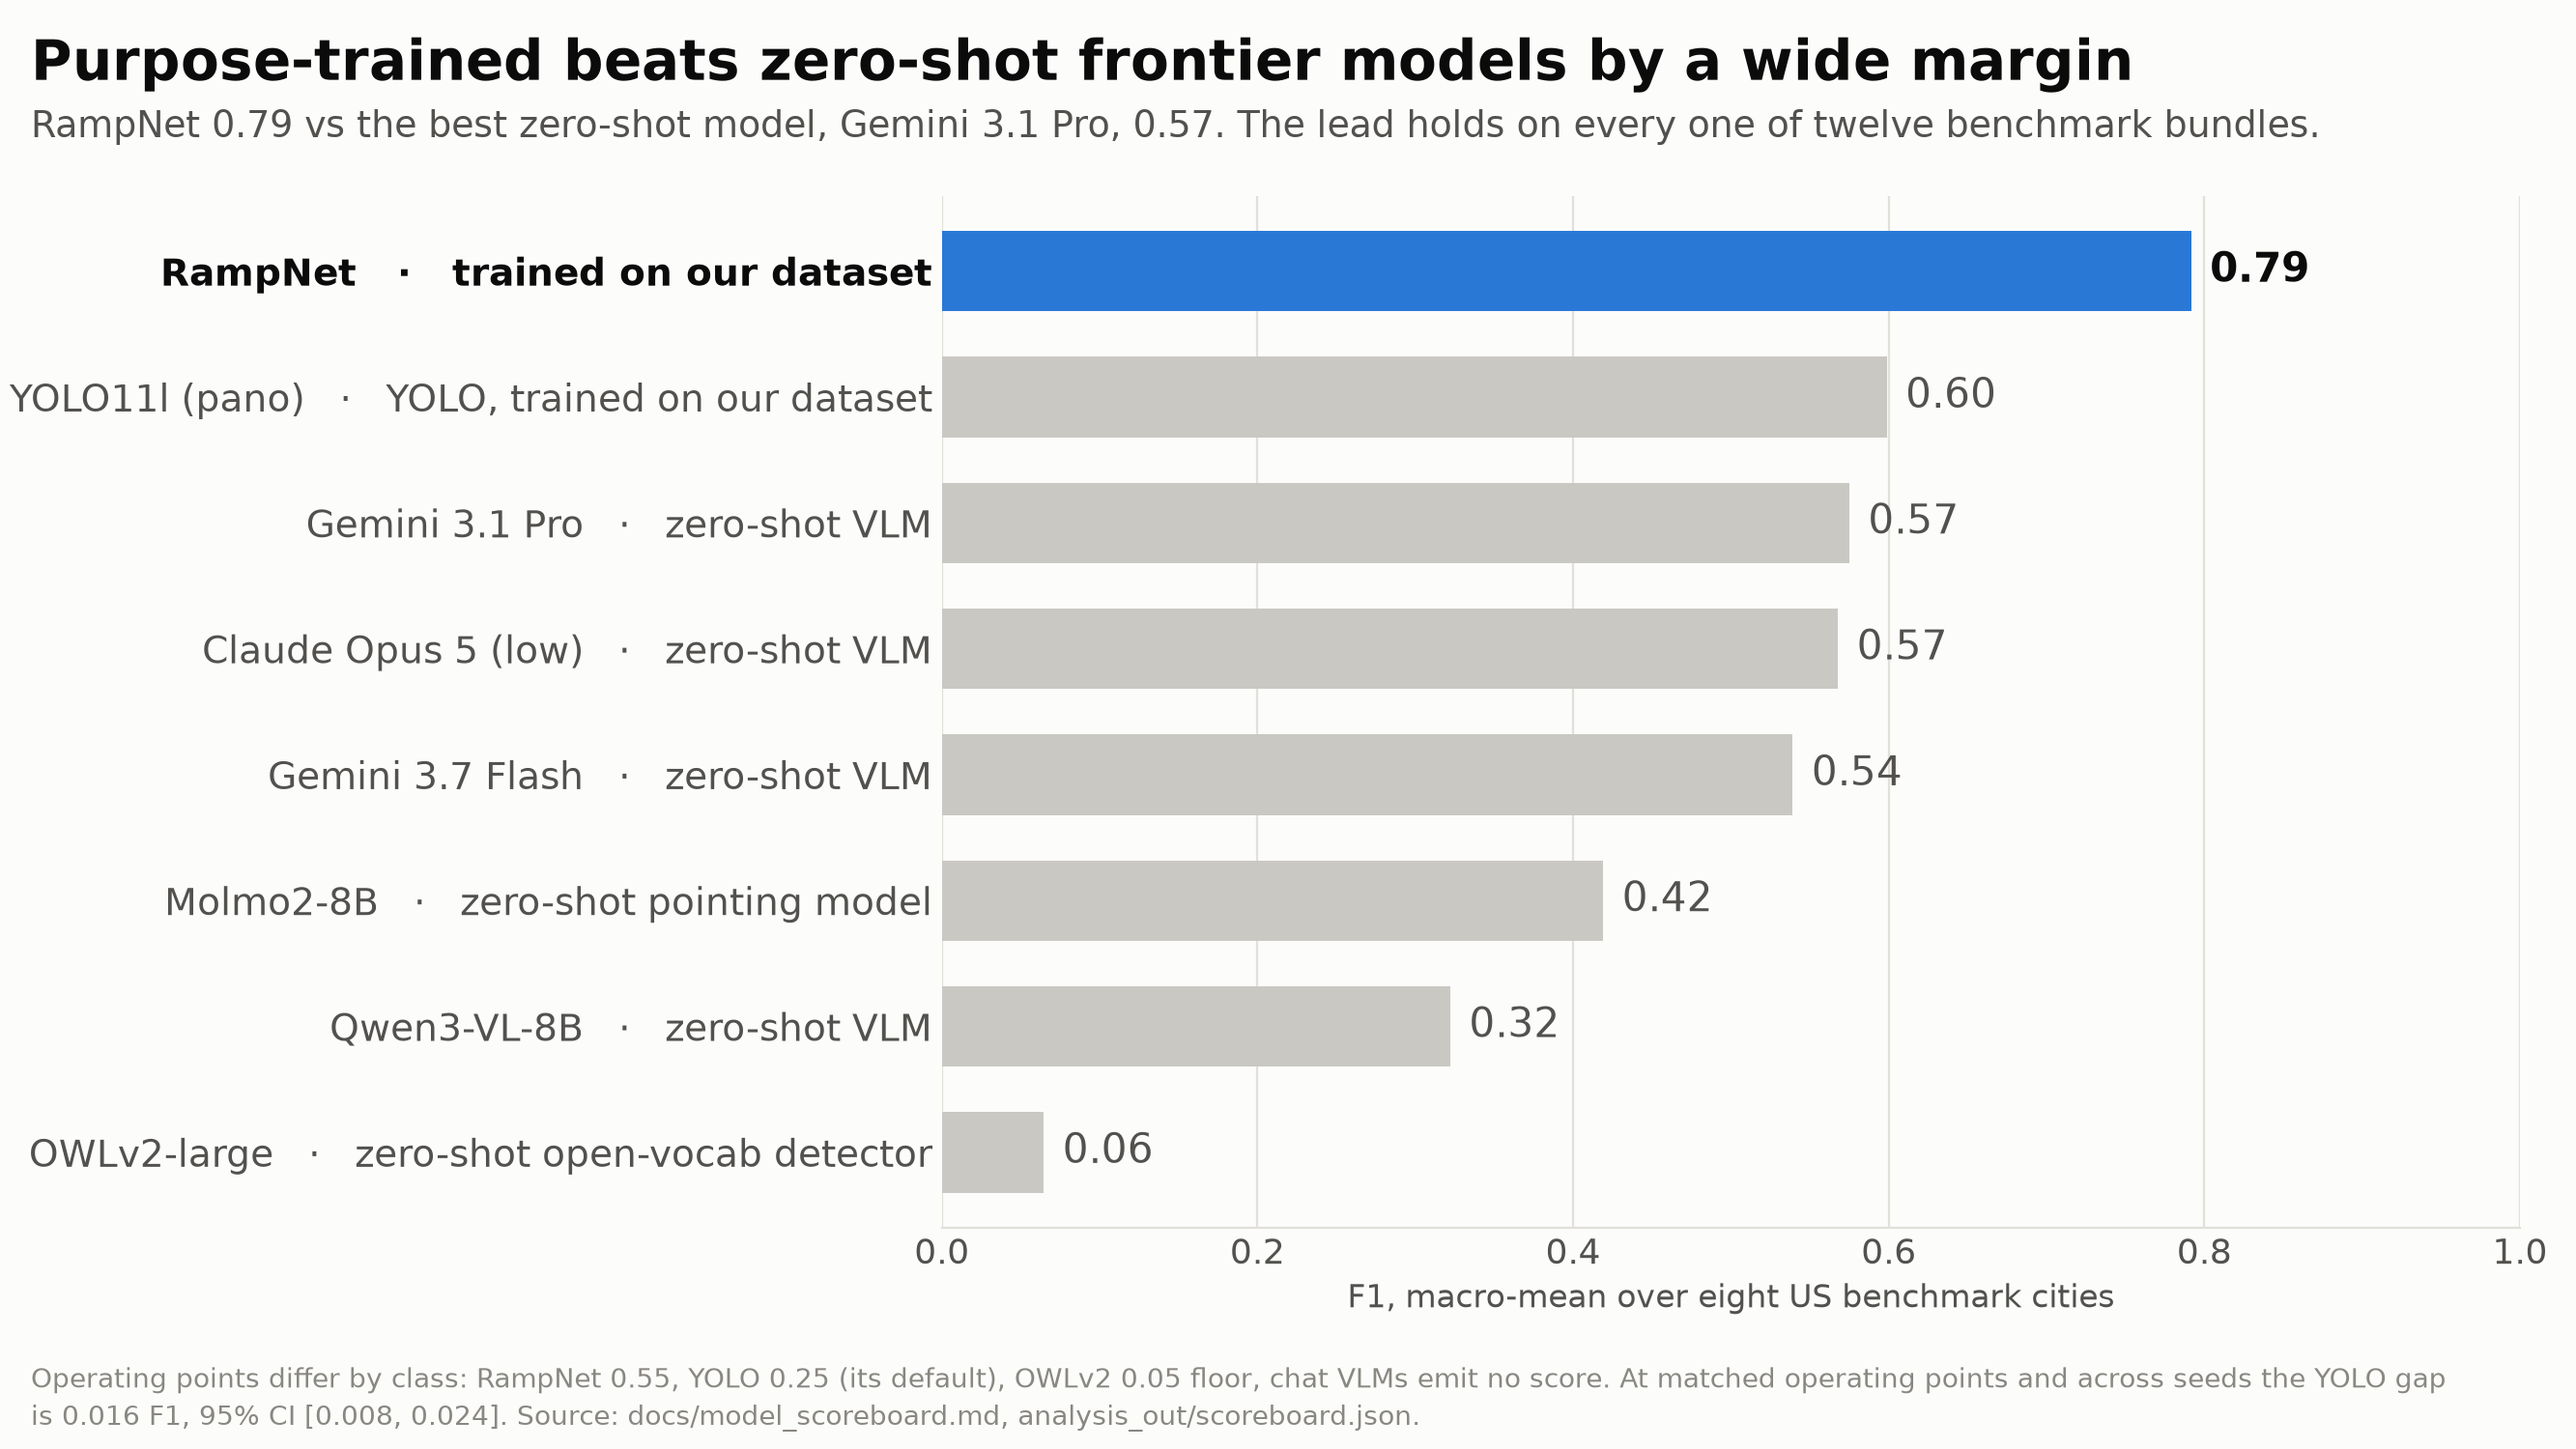
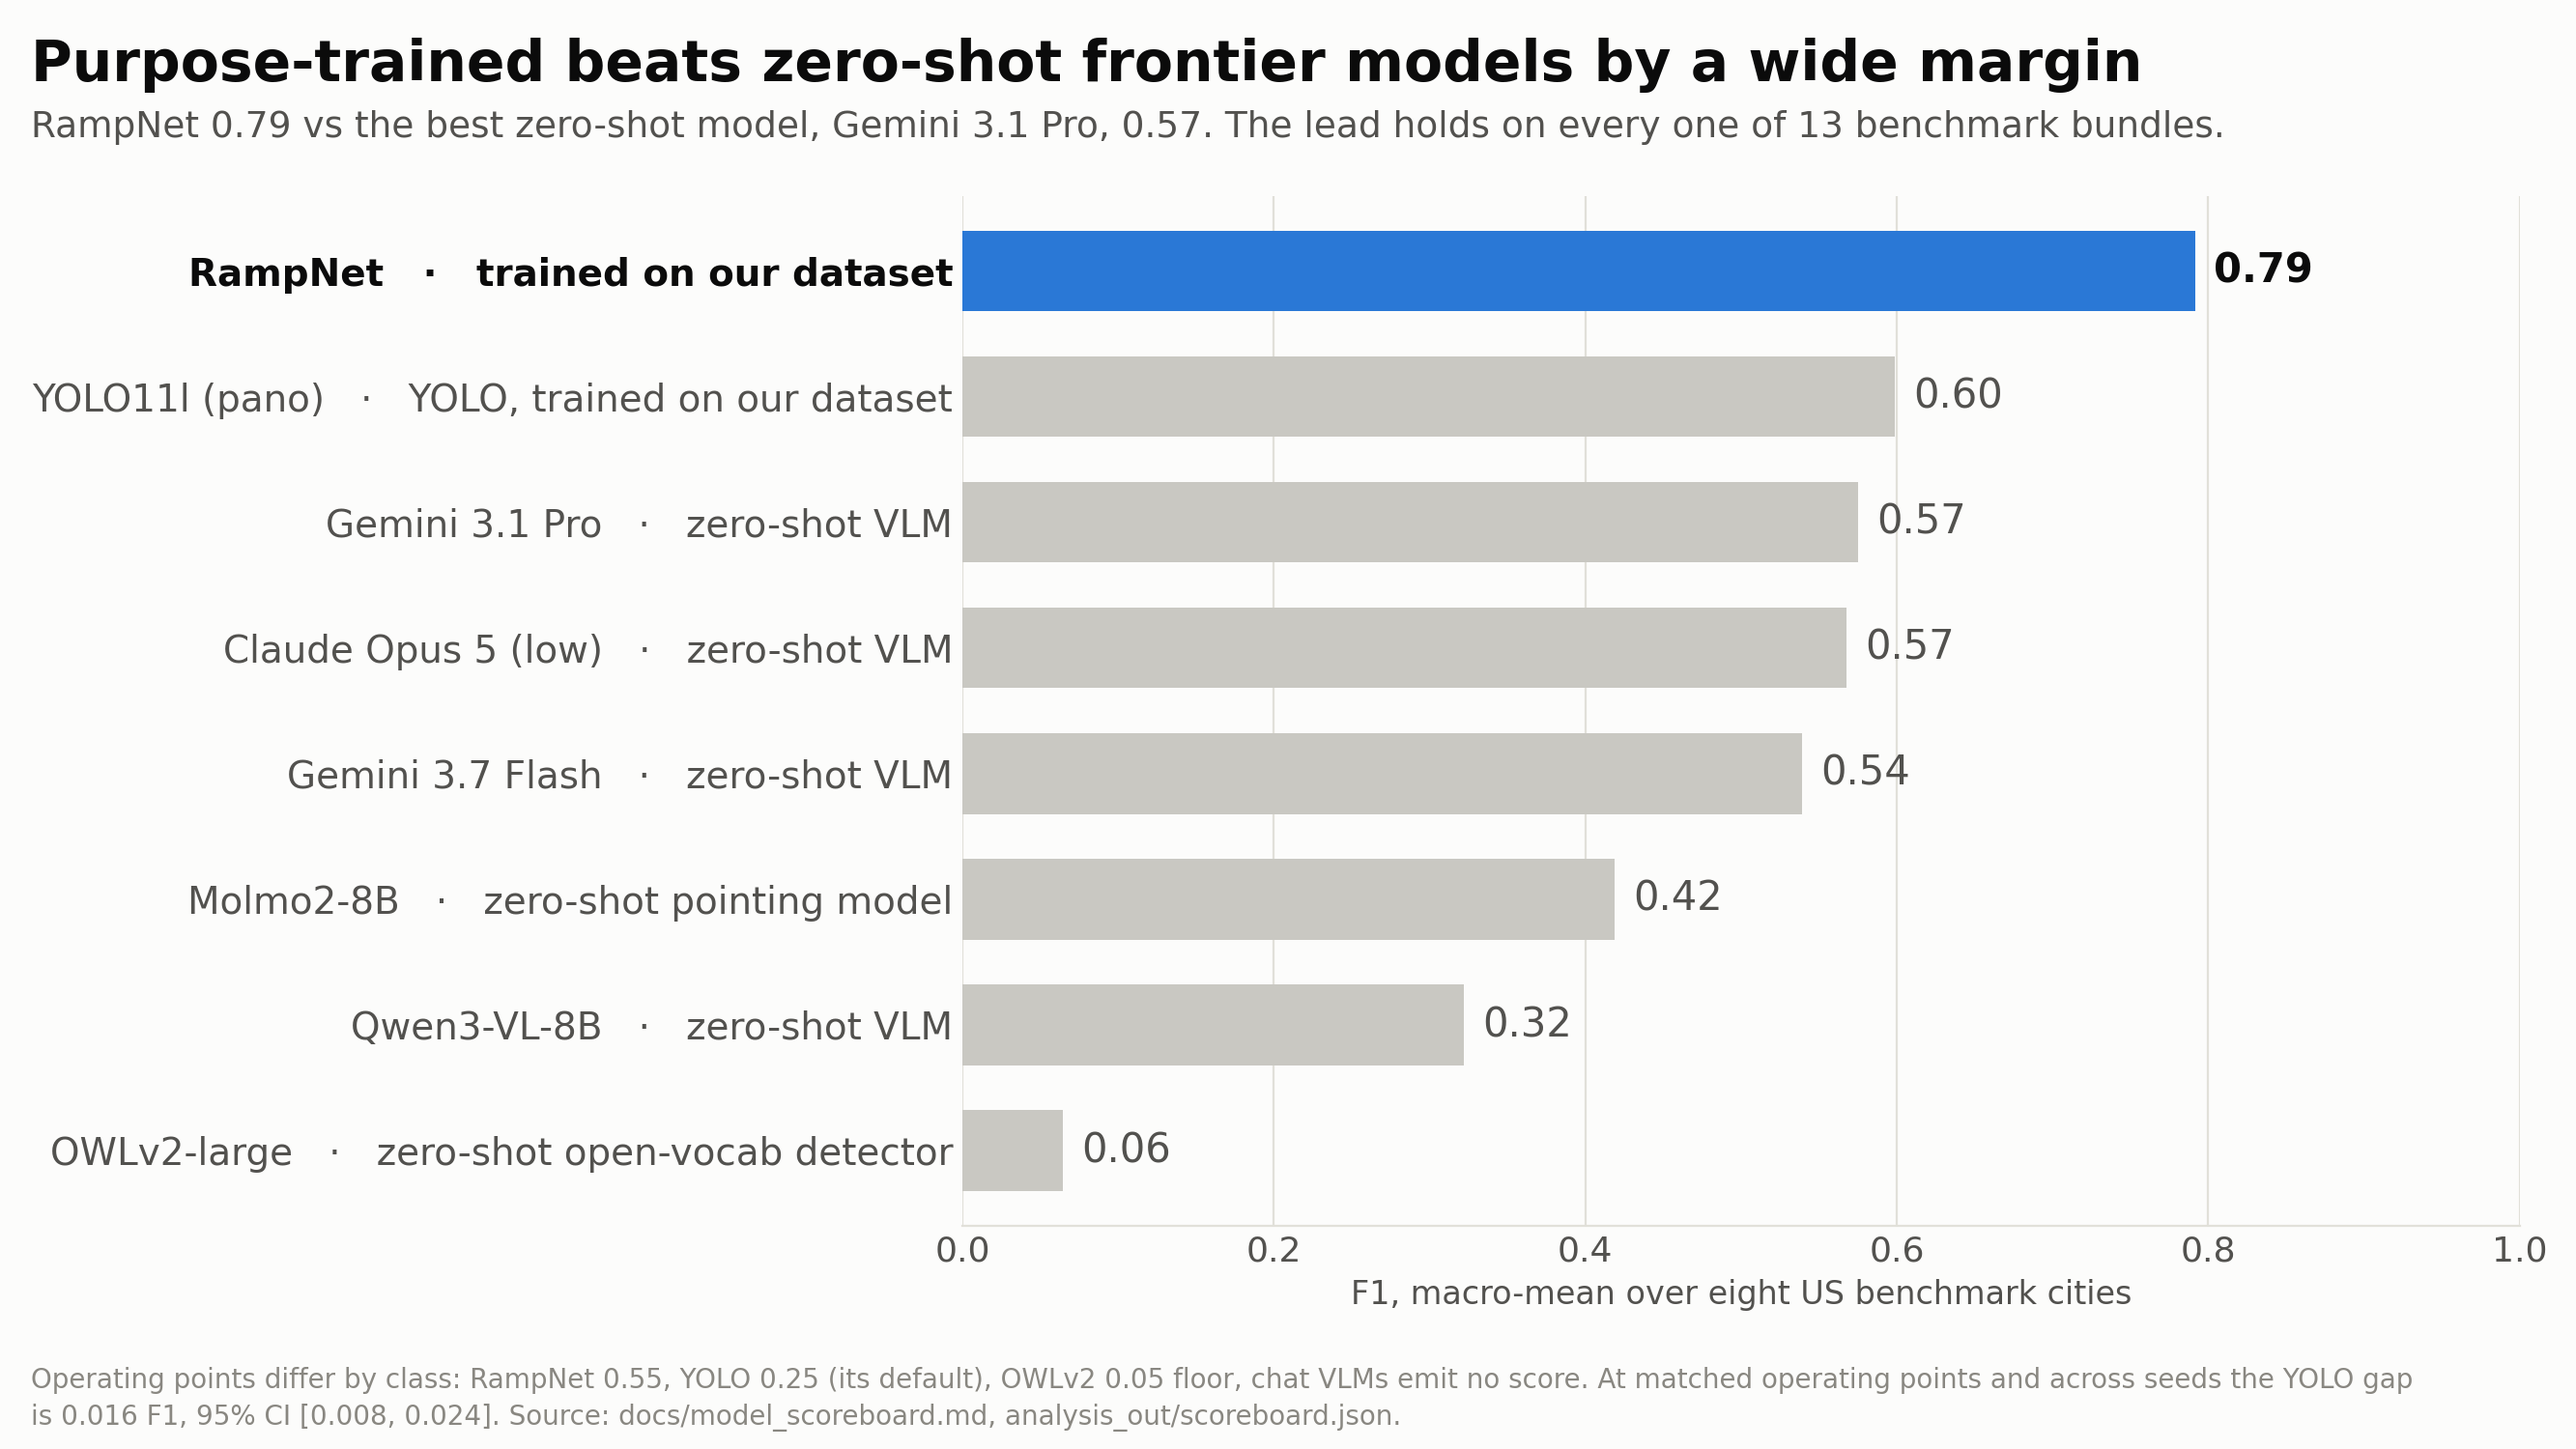
UChicago figures: thirteen bundles in comparison_f1 and rampnet2_roadmap
The final re-review found two captions still said "twelve" after Bayonne
became the thirteenth bundle. comparison_f1 now computes the count from the
scoreboard; the roadmap constant says thirteen with a note to re-check it.
Both PNGs regenerated. README: the showcase draws on 11 candidate splits, and
the 0.38 upper lead is against the best zero-shot model (the best YOLO arm
trails by only 0.058 on manual_gold).

Claude-Session: https://claude.ai/code/session_01X3eD3hDNQe6ZedrctnGGCN

diff --git a/scripts/talks/uchicago_2026_figures.py b/scripts/talks/uchicago_2026_figures.py
@@ -221,7 +221,8 @@ def fig_comparison(board, plt, v2=False):
     else:
         _titles(fig, "Purpose-trained beats zero-shot frontier models by a wide margin",
                 f"RampNet {ref:.2f} vs the best zero-shot model, {best_zs['display']}, "
-                f"{best_zs['f1']:.2f}. The lead holds on every one of twelve benchmark bundles.")
+                f"{best_zs['f1']:.2f}. The lead holds on every one of "
+                f"{len(board['per_split']['rampnet'])} benchmark bundles.")
         bottom = _footnote(fig,
                            "Operating points differ by class: RampNet 0.55, YOLO 0.25 (its default), "
                            "OWLv2 0.05 floor, chat VLMs emit no score. At matched operating points "
@@ -724,9 +725,11 @@ def fig_heatmap(plt, bench_root=BENCH_ROOT, split=HEATMAP_SPLIT, pano=HEATMAP_PA
 # ---------------------------------------------------------------------------------------------
 
 # Text from docs/rampnet2_plan.md §1 (goal table) and §4 (experiments), read 2026-10-05.
+# The bundle count is a literal (thirteen as of 2026-10-11, after #239 added Bayonne); check it
+# against len(scoreboard.json per_split.rampnet) before reuse.
 ROADMAP = [
     ("FIND", "Where is every curb ramp?",
-     "Gold-set F1 0.91; leads every zero-shot model on all twelve benchmark bundles; "
+     "Gold-set F1 0.91; leads every zero-shot model on all thirteen benchmark bundles; "
      "live in three Project Sidewalk cities.",
      "Consumer 360° rigs (Laurens recall 0.39 per view). Merging views of one ramp: "
      "of 74 ramps no fused site recovered, 63 fired in some view.",

diff --git a/docs/talks/uchicago_2026/README.md b/docs/talks/uchicago_2026/README.md
@@ -64,7 +64,7 @@ band above and the heatmap below with a ring on every peak ≥ 0.55, captioned w
 and the reviewer's verdict. Selection is mechanical from the committed verdicts
 (`showcase/manifest.json`): per split, the two panoramas with the most confirmed ramps where every
 detection was confirmed and nothing was missed, plus one seeded-random other, plus four true
-negatives (no ramps, no detections). Ten splits (laurens_gsv contributes none), two imagery
+negatives (no ramps, no detections). Ten of the 11 candidate splits (laurens_gsv contributes none; bayonne and manual_gold are not candidates), two imagery
 sources (GSV, Mapillary), three countries (US, Brazil, Hungary). The
 32 heatmaps are committed as 8-bit PNGs; frames and the mp4 are not (regenerate with
 `uchicago_2026_showcase.py render` then `video`, needs ffmpeg).
@@ -76,7 +76,7 @@ Three baselines, in increasing strength:
 | baseline | number | source |
 |---|---|---|
 | Prior curb-ramp detectors | Weld et al. 0.38 AP on our gold set vs RampNet 0.92; Tohme and Weld were at 26–34% precision | paper §2, `rampnet1_report.md` §3 |
-| Nine zero-shot models (Gemini 3.1 Pro, Claude Opus 5, Qwen3-VL, Molmo2, OWLv2, Grounding DINO, ...) | RampNet 0.792 pooled F1 over eight US cities vs 0.575 for the best; leads on all thirteen bundles, by 0.09 (bayonne) to 0.34 (manual_gold, against Gemini 3.1 Pro; 0.38 against the best challenger re-derivable from `scoreboard.json`) | `model_scoreboard.md`, findings §2 row 1 |
+| Nine zero-shot models (Gemini 3.1 Pro, Claude Opus 5, Qwen3-VL, Molmo2, OWLv2, Grounding DINO, ...) | RampNet 0.792 pooled F1 over eight US cities vs 0.575 for the best; leads on all thirteen bundles, by 0.09 (bayonne) to 0.34 (manual_gold, against Gemini 3.1 Pro; 0.38 against the best zero-shot model re-derivable from `scoreboard.json`, which is the gap the transfer figure shows on manual_gold; the lead over the best supervised YOLO arm there is only 0.058) | `model_scoreboard.md`, findings §2 row 1 |
 | A supervised YOLO trained on the same dataset | 0.599 at its default threshold; at matched operating points and across seeds the gap is 0.016 F1, 95% CI [0.008, 0.024] | `seed_variance_51_135.md`, findings §2 row 3 |
 
 The honest framing, which Jon chose: the dataset is the result; the keypoint formulation is a
